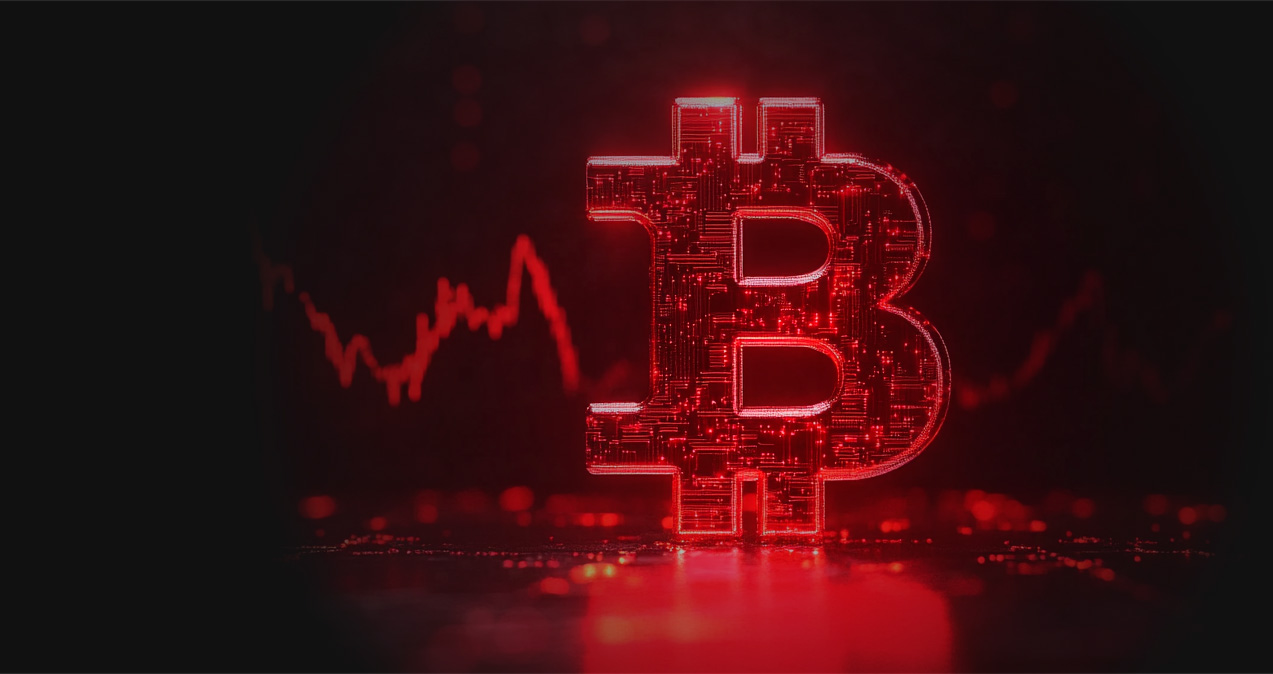
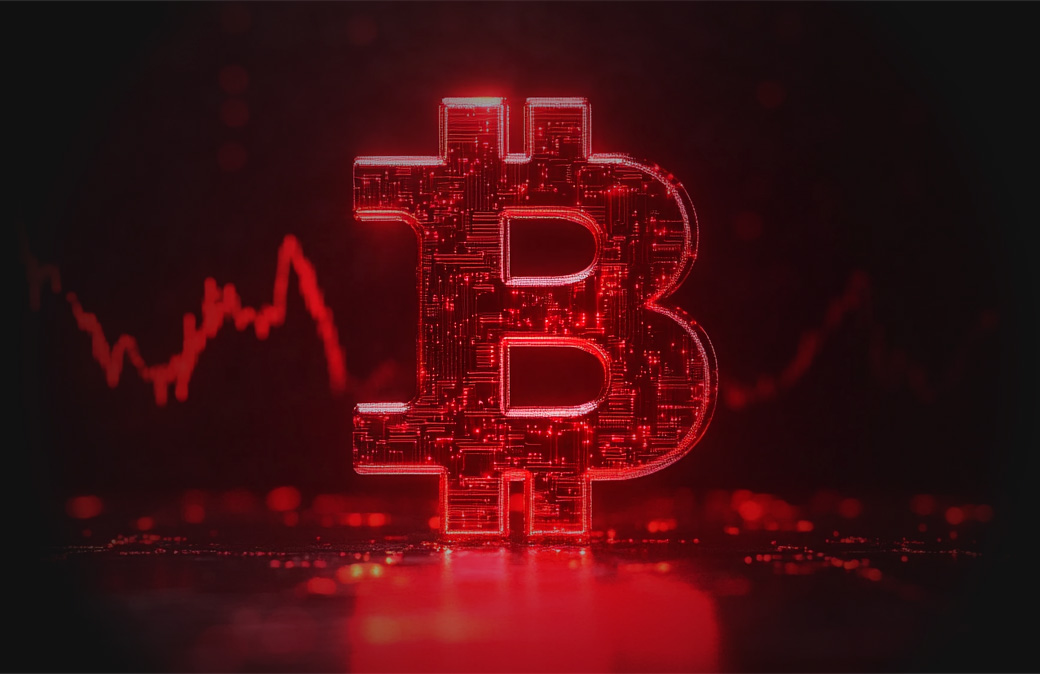
fix

diff --git a/src/sections/cryptocoin/crypto.module.css b/src/sections/cryptocoin/crypto.module.css
@@ -13,18 +13,27 @@
   padding: 0px;
   container-type: inline-size;
   box-shadow: 0px -5px 19px 4px #18181894;
+
+  background-image: url("/images/btc-bkg.jpg");
+  background-repeat: no-repeat;
+  background-position-x: 47vw;
+  background-size: contain;
+  min-height: 674px;
+  display: flex;
+
 }
 
 .wrapper {
   display: flex;
   align-items: center;
   justify-content: center;
-  padding: 90px 0px;
+  padding: 120px 0px;
   position: relative;
   max-width: 1900px;
   margin-inline: auto;
+  flex: 1;
 
-  &::after {
+  /* &::after {
     content: " ";
     background-image: url("/images/btc-bkg.jpg");
     background-repeat: no-repeat;
@@ -40,7 +49,7 @@
     position: absolute;
     max-height: 385px;
     overflow: hidden;
-  }
+  } */
 }
 
 .container {
@@ -140,5 +149,22 @@
 @media only screen and (min-width: 1480px) {
   .cryptoSection {
     --min-bg-container-size: 58cqw;
+  }
+}
+
+@media screen and (max-width: 768px) {
+  .cryptoSection {
+    background-position-x: 0%;
+    background-position-y: 100%;
+    min-height: 500px;
+    background-image: none;
+  }
+  .cryptoSection .wrapper {
+    flex: inherit;
+    padding: 30px 0px;
+    /* height: 220px; */
+  }
+  .cryptoSection img {
+    /* display: none; */
   }
 }

diff --git a/src/styles/global.scss b/src/styles/global.scss
@@ -1531,7 +1531,7 @@ section.about-us {
   overflow: hidden;
   height: auto;
   background: var(--color-black-200);
-  background: var(--color-gradient-dark);
+  
   color: #fff;
   position: relative;
 
@@ -1890,13 +1890,15 @@ section.sectionService {
   }
 
   @media screen and (max-width: 820px) {
+    
     .slide-contain {
       .contain {
         background-position: top !important;
         background-size: contain;
         flex-direction: column !important;
         align-items: center;
-        padding-top: 230px;
+        padding-top: 320px;
+        background-size: contain !important;
         ul {
           max-width: 100% !important;
           li {
